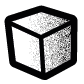
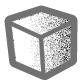
asset colour change from black to grey

diff --git a/index.html b/index.html
@@ -5,62 +5,61 @@
             <meta charset="UTF-8">
             <meta name="viewport" content="width=device-width, initial-scale=1">
             <link href="_css/misu-stylesheet.css" rel="stylesheet" type="css">
-            <script src="_js/parallax.js" type= "text/javascript"></script>
+            <script src="_js/parallax.js" type= "text/javascript"></script>   
         </head>  
         
-        <body>
+    <body>
 <!-- Text Logo Home Button (fixed top right) -->
-            <div class="txt_logo">
-                <img src="_assets/_images/txt-logo.png" alt="Text Logo">
+            <div class="top-container">
+                <img src="_assets/_images/txt-logo.png" alt="Text Logo" id="txt-logo"> 
             </div>
 
 <!-- Parallax Logo (fixed centre) -->
-            <div class="layers">
-                <img src="_assets/_images/bowl.png" alt="bowl">
+            <div class="layers-container">
+                <img id="bowl" img src="_assets/_images/bowl.png" alt="bowl">
+                
+                <img id="face" img src="_assets/_images/face.png" alt="face">
+                
+                <img id="noodle-1" img src="_assets/_images/noodle-1.png" alt="noodle-1">
+                
+                <img id="noodle-2" img src="_assets/_images/noodle-2.png" alt="noodle-2">
+                
+                <img id="noodle-3" img src="_assets/_images/noodle-3.png" alt="noodle-3">
 
-                <img src="_assets/_images/face.png" alt="face">
-			        
-                <img src="_assets/_images/noodles-1.png" alt="noodles-1">
-    
-                <img src="_assets/_images/noodles-2.png" alt="noodles-2">
-
-                <img src="_assets/_images/noodles-3.png" alt="noodles-3">
-
-                <img src="_assets/_images/seaweed-1.png" alt="seaweed-1">
+                <img id="seaweed-1" img src="_assets/_images/seaweed-1.png" alt="seaweed-1">
                                                     
-                <img src="_assets/_images/seaweed-2.png" alt="seaweed-2">
+                <img id="seaweed-2" img src="_assets/_images/seaweed-2.png" alt="seaweed-2">
                                                         
-                <img src="_assets/_images/onion-1.png" alt="onion-1">
+                <img id="onion-1" img src="_assets/_images/onion-1.png" alt="onion-1">
                     
-                <img src="_assets/_images/onion-2.png" alt="onion-2">
+                <img id="onion-2" img src="_assets/_images/onion-2.png" alt="onion-2">
                     
-                <img src="_assets/_images/shroom-1.png" alt="shroom-1">
+                <img id="shroom-1" img src="_assets/_images/shroom-1.png" alt="shroom-1">
                                                        
-                <img src="_assets/_images/shroom-2.png" alt="shroom-2">
+                <img id="shroom-2" img src="_assets/_images/shroom-2.png" alt="shroom-2">
                     
-                <img src="_assets/_images/shroom-3.png" alt="shroom-3">
+                <img id="shroom-3" img src="_assets/_images/shroom-3.png" alt="shroom-3">
                         
-                <img src="_assets/_images/tofu-1.png" alt="tofu-1">
+                <img id="tofu-1" img src="_assets/_images/tofu-1.png" alt="tofu-1">
                     
-                <img src="_assets/_images/tofu-2.png" alt="tofu-2">
+                <img id="tofu-2" img src="_assets/_images/tofu-2.png" alt="tofu-2">
                     
-                <img src="_assets/_images/tofu-3.png" alt="tofu-3">
+                <img id="tofu-3" img src="_assets/_images/tofu-3.png" alt="tofu-3">
             </div>
-            
             <script>
-                var scene = document.getElementById('scene');
+                var layers = document.getElementById('scene');
                 var parallax = new Parallax(scene);
-            </script>
+            </script> 
 
-<!-- Navbar (fixed bottom left) -->
-            <div class="menu">
-              <img src="_assets/_images/menu.png" alt="Menu">
-            </div>            
+<!-- Navbar (fixed bottom left) 
+        <div class="bottom-container">
+                <img id="menu" img src="_assets/_images/menu.png" alt="Menu">
+            </div>   --> 
             
     </body>
-        
-        <footer>
+
+    <footer>
             <p>© MiSu Makes 2009-2020</p>
-        </footer>
+    </footer>
         
     </html>

diff --git a/_css/misu-stylesheet.css b/_css/misu-stylesheet.css
@@ -4,46 +4,108 @@ body{
     background-colour: #FFFFFF;
     margin: 0;
     padding: 0;
-    /*position:absolute;
     width:1920px;
-    height:4320px;
-    background-colour:rgba(255,255,255,1);
-    overflow:hidden;
-    --web-view-name: Main Page;
-    --web-view-id: Main_Page;
-	--web-scale-on-resize: true;		
-    --web-enable-deep-linking: true;*/
-}
-.txt_logo{  
+    height:1080px;
 }
 
-.containerLayers{
-    data-depth: 0.1;
-    background-color: #FFFFFF;
-    background-size: 250px;
-    border: none;
-    width: 100%;
-	height: 100vh;
-	overflow: hidden;
-	background-attachment: fixed;
+.top-container{
+    overflow: auto;
+    position: fixed;
+    height: 150px;
+    width:auto;
+    top: 0px;
+}
+
+#txt-logo{ 
+    position: relative;
+    top: 70px;
+    left: 1645px;
+}
+
+.layers-container{
+    /*data-depth: 0.1;*/
+    height: 1080px;
+    width: 1920px;
+    top: 0;
+    /*width: 100%;
+    height: 100vh;
+    find out what vh means*/
+    overflow: hidden;
+    position: static;
 }
 
 #bowl{
-    max-width:50%; 
+    /*max-width:50%; 
     max-height:50%;
-    left: 50px;
-    right: 0px;   
+    //left: 50px;
+    right: 0px;//   
+    background-attachment: fixed;
+    background-position:center;
+    top: 50px;
+    left: 50px;*/ 
 }
 
-.layer{
-    
+#face{
+    /*display: block;
+    margin-left: auto;
+    margin-right: auto;
+    margin-top: 10%;
+    // adjusts size of image 
+    max-width: 60%;
+    max-height: 60%;
+    or
+    width: 60%;
+    height: 60%;
+    //
+    position: absolute;
+    background-position:center;*/
 }
+
+/*
+#noodle-1
+
+#noodle-2
+
+#noodle-3
+
+#seaweed-1
+
+#seaweed-2
+
+#onion-1
+
+#onion-2
+
+#shroom-1
+
+#shroom-2
+
+#shroom-3
+
+#tofu-1
+
+#tofu-2
+
+#tofu-3
+*/
 
 .mixBlnd{
 	background-blend-mode: screen;
 }
 
-.menu{
+.bottom-container{
+    position: relative;
+    bottom: 50px;
+}
+
+#menu{
+    position: relative;
+    bottom: 50px;
+}
+
+.footer{
+    position: fixed;
+    
 }
 
 /*max-width: 100%;
